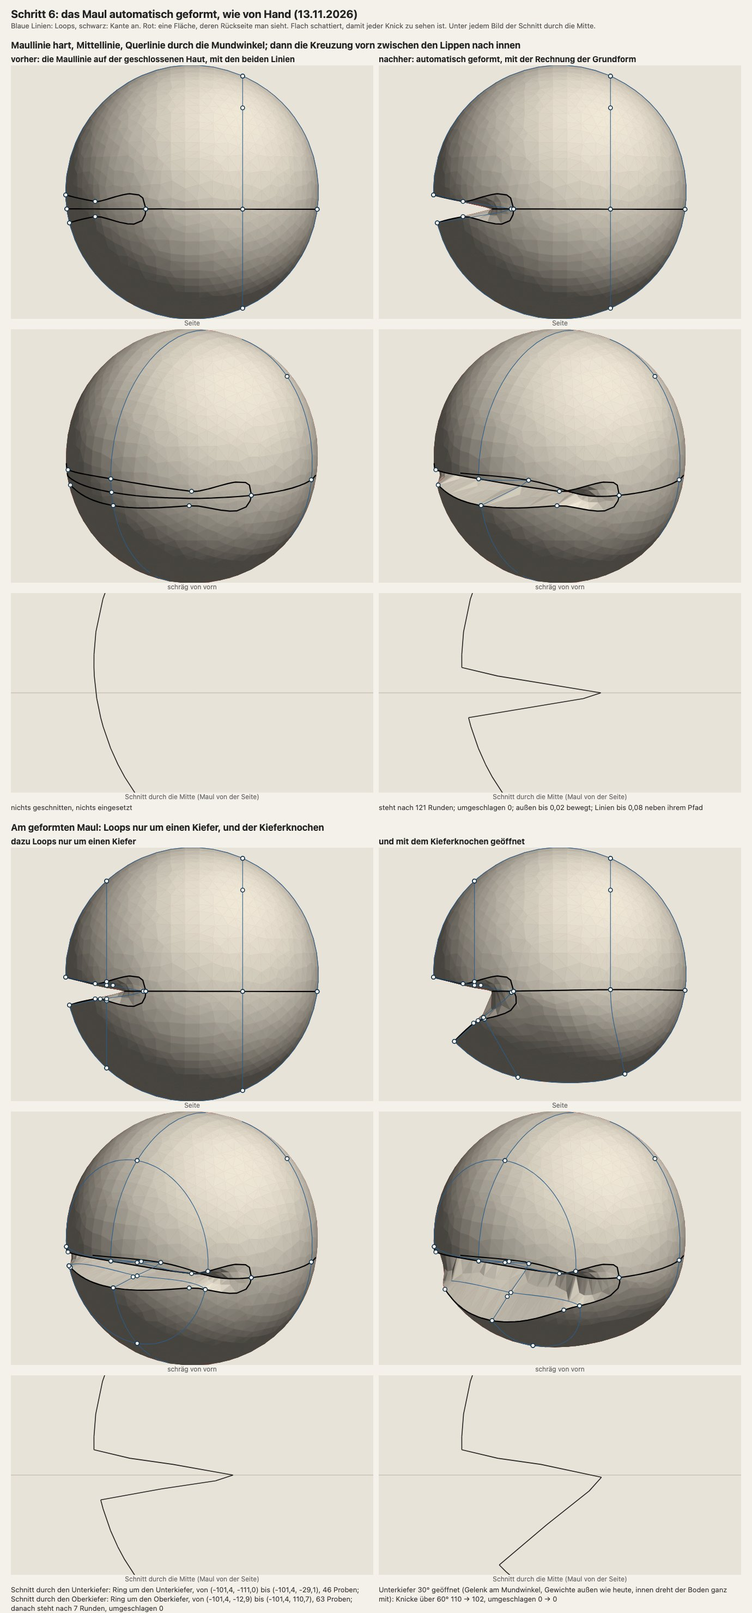
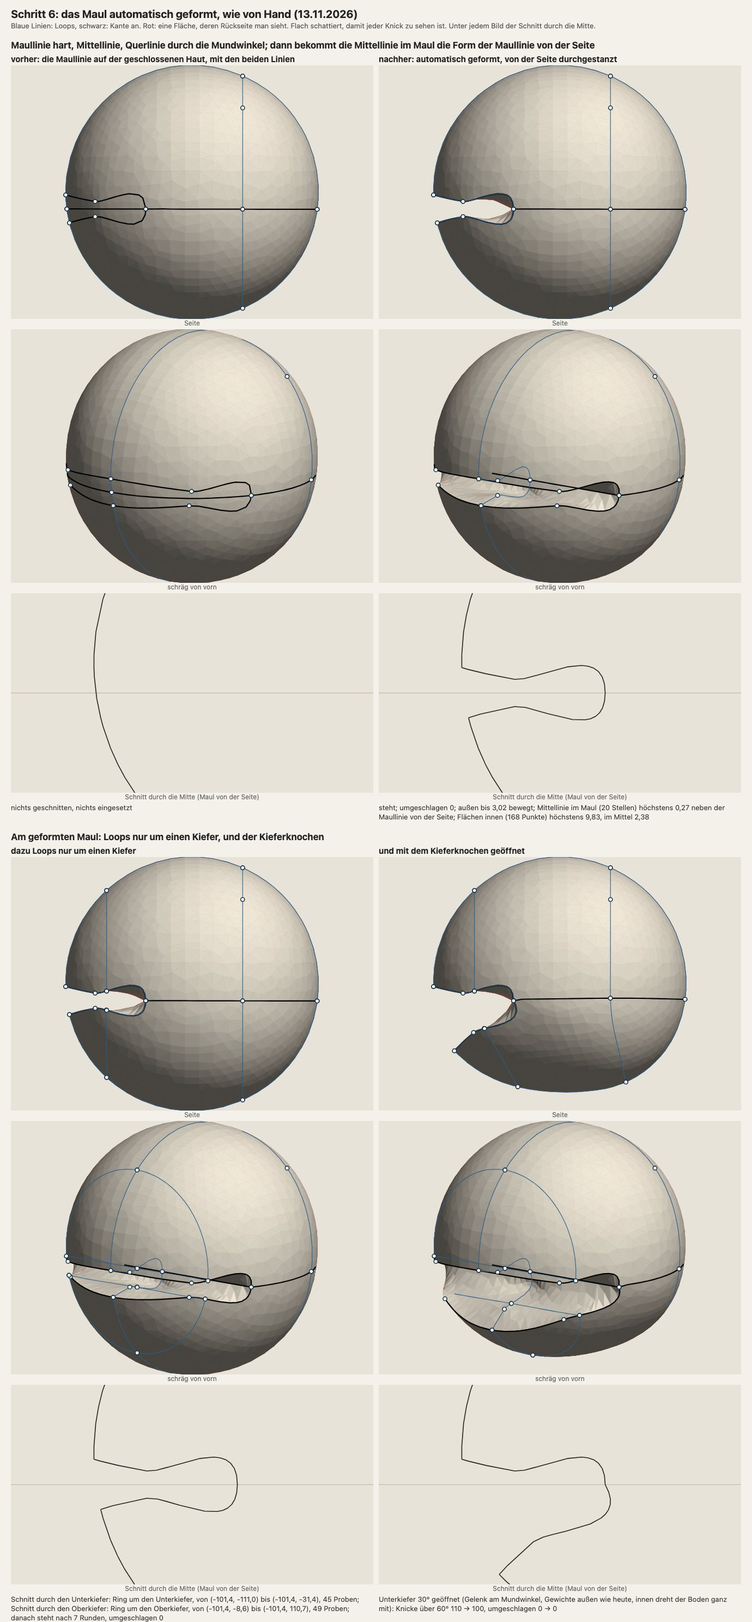
Schritt 6: das automatisch geformte Maul von der Seite durchgestanzt
Florian zum ersten Bild: Das Maul soll aussehen, als wäre die Maullinie von der Seite durchgestanzt; die Mittellinie
muss von der Seite exakt ihre Form haben. Probe form-maul-automatisch.ts: Die Mittellinie bekommt im Maul die Punkte
und Griffe der Maullinie, flach auf die Mittelebene gelegt, in Stufen mit Verfeinern dazwischen. Ergebnis: steht,
nichts umgeschlagen, die Mittellinie liegt im Maul höchstens 0,27 neben der Maullinie von der Seite; die Flächen
zwischen Lippe und Mitte weichen noch bis 9,8 ab (dort liegt keine Linie). Plan, Übergabe (7.9), Bild und Zahlen.

diff --git a/apps/editor/scripts/pruefen/form-maul-automatisch.ts b/apps/editor/scripts/pruefen/form-maul-automatisch.ts
@@ -9,25 +9,28 @@
 //   2  die Mittellinie (falls sie fehlt) und eine Querlinie durch beide Mundwinkel: ein Ring um den Kopf in der Ebene des Mauls. Er
 //      kreuzt die Mittellinie vorn zwischen den Lippen und die Maullinie in den Mundwinkeln; sein Stück zwischen diesen Kreuzungen ist
 //      die Verbindung der gegenüberliegenden Seiten
-//   3  die Kreuzung vorn zwischen den Lippen wird nach innen gezogen, bis zwischen die Mundwinkel: Aus der Fläche zwischen den Lippen
-//      werden Gaumen und Boden
+//   3  durchstanzen (Florian: „als wäre der Edgeloop von der Seitenansicht durchgestanzt […] Das heißt, die Mittellinie muss von der
+//      Seite exakt den Shape der Maullinie haben“): Die Mittellinie bekommt im Maul die Punkte und Griffe der Maullinie, flach auf
+//      die Mittelebene gelegt; die Kreuzung vorn wandert dabei zwischen die Mundwinkel. In Stufen gezogen, unterwegs verfeinert
+//      wie nach jedem Zug. Aus der Fläche zwischen den Lippen werden Gaumen und Boden
 // Form: die Kugel mit Ring und Maullinie aus `formen/pose-maul-kugel.eewesen`.
 //
 // Aufruf aus packages/shape: npx vite-node ../../apps/editor/scripts/pruefen/form-maul-automatisch.ts
-//   AUS=<datei.html> (Bildblatt)   SCHRITTE=60   TIEF=0.97 (Anteil des Wegs bis zwischen die Mundwinkel)   QUER=hart|weich
+//   AUS=<datei.html> (Bildblatt)   STUFEN=8 (so oft wird unterwegs verfeinert)   SCHRITTE=8 (Schritte je Stufe)   QUER=hart|weich
 import { fileURLToPath } from 'node:url';
 import { loopEinsetzen } from '../../../../packages/shape/src/dicht/einsetzen';
 import type { Haut, V3 } from '../../../../packages/shape/src/dicht/kurven';
 import { falten } from '../../../../packages/shape/src/dicht/kurvenFaelle';
 import { type Loop, LoopZug, eckenAuto, griffeAnlegen, hatPfad, hautLagen, istSichtbar, kanteBei, kreuzungenZwischen, loopAusSchnitt, mittlereKante, pfadLagen, punktEinfuegen } from '../../../../packages/shape/src/dicht/loops';
 import { maulAmLoop, mundwinkelProbe } from '../../../../packages/shape/src/dicht/maulLoop';
+import { verdichten } from '../../../../packages/shape/src/dicht/verdichten';
 import { type BlattBild, type BlattLinie, type BlattSchnitt, type BlattZeile, blattSchreiben } from './form-direkt-blatt';
-import { formLadenDatei } from './form-direkt-faelle';
+import { formLadenDatei, verdichtenWieImFenster } from './form-direkt-faelle';
 
 const DATEI = process.env.FORM ?? fileURLToPath(new URL('./formen/pose-maul-kugel.eewesen', import.meta.url));
 const AUS = process.env.AUS ?? '';
-const SCHRITTE = Number(process.env.SCHRITTE ?? 60);
-const TIEF = Number(process.env.TIEF ?? 0.97);
+const STUFEN = Number(process.env.STUFEN ?? 8);
+const SCHRITTE = Number(process.env.SCHRITTE ?? 8);
 const QUER_HART = process.env.QUER !== 'weich';
 const RUHE = 0.02;
 const z1 = (x: number): string => x.toFixed(1).replace('.', ',');
@@ -131,38 +134,197 @@ const vorher: Stand = { h: { ...st.h, pos: Float64Array.from(st.h.pos) }, loops:
 const ruheVor = rechnen(st);
 console.log(`vor dem Zug: ${ruheVor.steht ? `steht nach ${ruheVor.runden} Runden` : 'steht nicht'}; Knicke über 60° ${falten(st.h).ueber60}, umgeschlagen ${falten(st.h).umgeklappt}`);
 
-// 3. die Kreuzung vorn nach innen, bis zwischen die Mundwinkel
+// 3. durchstanzen: die Mittellinie bekommt im Maul die Form der Maullinie von der Seite
 const kVorn = vornP.kreuzung!;
-const weg = { x: TIEF * (G.x - vornP.ref.x), y: TIEF * (G.y - vornP.ref.y), z: 0 };
-const ziel = st.loops.map((l) => {
-  const P = l.punkte.map((p) => {
-    if (p.kreuzung !== kVorn) return p.ref;
-    p.cur = { x: p.ref.x + weg.x, y: p.ref.y + weg.y, z: p.ref.z };
-    return p.cur;
-  });
-  return pfadLagen(l, P) ?? Float64Array.from(l.ruhe);
-});
-const vorZug = Float64Array.from(st.h.pos);
-const lauf = rechnen(st, ziel, SCHRITTE);
-let linieWeit = 0;
-st.loops.forEach((l, i) => {
-  for (let k = 0; k < l.ruhe.length; k += 3) linieWeit = Math.max(linieWeit, Math.hypot(l.ruhe[k]! - ziel[i]![k]!, l.ruhe[k + 1]! - ziel[i]![k + 1]!, l.ruhe[k + 2]! - ziel[i]![k + 2]!));
-});
-const f1 = falten(st.h);
-// außen: Punkte, die vor dem Zug nicht in der Fläche zwischen den Lippen lagen (weiter als 12 hinter den Lippen vorn oder seitlich davon)
-let aussen = 0;
-let innenTief = 0;
-for (let v = 0; v < st.h.n; v++) {
-  const d = Math.hypot(st.h.pos[3 * v]! - vorZug[3 * v]!, st.h.pos[3 * v + 1]! - vorZug[3 * v + 1]!, st.h.pos[3 * v + 2]! - vorZug[3 * v + 2]!);
-  const y0 = vorZug[3 * v + 1]!;
-  const imMaul = vorZug[3 * v]! < G.x && y0 < Math.max(eA.y, eB.y) + 1 && y0 > Math.min(eA.y, eB.y) - 1;
-  if (imMaul) innenTief = Math.max(innenTief, d);
-  else aussen = Math.max(aussen, d);
+const flach = (v: V3): V3 => ({ x: v.x, y: v.y, z: 0 });
+type Ziel = { loop: number; i: number; ort?: V3; ein?: V3; aus?: V3 };
+const ziele: Ziel[] = [];
+{
+  const L = maul();
+  const M = mitte();
+  const n = M.punkte.length;
+  const iW = L.punkte.findIndex((q) => q.mundwinkel);
+  const W = L.punkte[iW]!;
+  const amWinkel = (q: { ref: V3 }): boolean => Math.hypot(q.ref.x - G.x, q.ref.y - G.y, q.ref.z - G.z) < 1;
+  const erste = L.punkte[0]!;
+  const letzte = L.punkte[L.punkte.length - 1]!;
+  const vorWinkel = L.punkte.slice(1, iW).filter((q) => !amWinkel(q));
+  const nachWinkel = L.punkte.slice(iW + 1, -1).filter((q) => !amWinkel(q));
+  const pE0 = M.punkte.find((q) => q.kreuzung === erste.kreuzung)!;
+  const pE1 = M.punkte.find((q) => q.kreuzung === letzte.kreuzung)!;
+  const pT = M.punkte.find((q) => q.kreuzung === kVorn)!;
+  if (!pE0 || !pE1 || !pT) throw new Error('Die Mittellinie kreuzt die Maullinie nicht an beiden Lippen');
+  const folgt = (a: number, b: number): boolean => (b - a + n) % n === 1;
+  // läuft die Mittellinie vom Ende der Maullinie über die Mitte zu ihrem Anfang (dann die Maullinie rückwärts) oder umgekehrt?
+  const rueck = folgt(M.punkte.indexOf(pE1), M.punkte.indexOf(pT)) && folgt(M.punkte.indexOf(pT), M.punkte.indexOf(pE0));
+  const von = rueck ? pE1 : pE0;
+  const bis = rueck ? pE0 : pE1;
+  const erst = rueck ? [...nachWinkel].reverse() : vorWinkel;
+  const dann = rueck ? [...vorWinkel].reverse() : nachWinkel;
+  const hinein = (q: { ein?: V3; aus?: V3 }): V3 => flach((rueck ? q.aus : q.ein)!);
+  const hinaus = (q: { ein?: V3; aus?: V3 }): V3 => flach((rueck ? q.ein : q.aus)!);
+  // neue Punkte der Mittellinie: je Punkt der Maullinie einer, zunächst gleichmäßig auf dem kurzen Stück zwischen den Lippen
+  const einfuegen = (a: { s: number }, b: { s: number }, zahl: number): ReturnType<typeof punktEinfuegen>[] => {
+    const ds = (b.s - a.s + M.laenge) % M.laenge;
+    return Array.from({ length: zahl }, (_, j) => punktEinfuegen(M, (a.s + (ds * (j + 1)) / (zahl + 1)) % M.laenge, undefined, true));
+  };
+  const neuErst = einfuegen(von, pT, erst.length);
+  const neuDann = einfuegen(pT, bis, dann.length);
+  const nr = (q: unknown): number => M.punkte.indexOf(q as (typeof M.punkte)[number]);
+  erst.forEach((q, j) => ziele.push({ loop: M.id, i: nr(neuErst[j]), ort: flach(q.ref), ein: hinein(q), aus: hinaus(q) }));
+  dann.forEach((q, j) => ziele.push({ loop: M.id, i: nr(neuDann[j]), ort: flach(q.ref), ein: hinein(q), aus: hinaus(q) }));
+  // am Mundwinkel können zwei Punkte liegen (der Mundwinkel und die Kreuzung mit der Querlinie dicht daneben): Der Griff zur einen
+  // Lippe steht am ersten, der zur anderen am letzten
+  const amW = L.punkte.filter((q) => amWinkel(q));
+  const zuAnfang = flach(amW[0]!.ein!);
+  const zuEnde = flach(amW[amW.length - 1]!.aus!);
+  ziele.push({ loop: M.id, i: nr(pT), ort: flach(W.ref), ein: rueck ? zuEnde : zuAnfang, aus: rueck ? zuAnfang : zuEnde });
+  // an den Lippen vorn: der Griff ins Maul wie der der Maullinie dort (der andere bleibt)
+  ziele.push({ loop: M.id, i: nr(von), aus: flach((rueck ? letzte.ein : erste.aus)!) });
+  ziele.push({ loop: M.id, i: nr(bis), ein: flach((rueck ? erste.aus : letzte.ein)!) });
+  // die Querlinie: ihr Punkt vorn kommt zwischen die Mundwinkel, das Stück bis zum Mundwinkel wird gerade
+  const Q = quer();
+  const qT = Q.punkte.findIndex((q) => q.kreuzung === kVorn);
+  const qW = winkelP ? Q.punkte.indexOf(winkelP) : -1;
+  const d3 = G.z / 3;
+  ziele.push({ loop: Q.id, i: qT, ort: flach(W.ref), ...(qT === 0 ? { aus: { x: 0, y: 0, z: d3 }, ein: { x: 0, y: 0, z: -d3 } } : { ein: { x: 0, y: 0, z: d3 }, aus: { x: 0, y: 0, z: -d3 } }) });
+  if (qW >= 0) ziele.push({ loop: Q.id, i: qW, ...(qW > qT ? { ein: { x: 0, y: 0, z: -d3 } } : { aus: { x: 0, y: 0, z: -d3 } }) });
+  for (const x of st.loops) for (const q of x.punkte) q.cur = { ...q.ref };
+  console.log(`Durchstanzen: die Mittellinie bekommt im Maul ${erst.length + dann.length + 1} Punkte der Maullinie (${rueck ? 'rückwärts' : 'vorwärts'} durchlaufen); Mittellinie jetzt ${M.punkte.length} Punkte`);
 }
+// Anfang und Ende je Punkt und Griff
+const start = ziele.map((zl) => {
+  const q = st.loops.find((l) => l.id === zl.loop)!.punkte[zl.i]!;
+  return { ort: { ...q.ref }, ein: { ...q.ein! }, aus: { ...q.aus! } };
+});
+const zwischen = (a: V3, b: V3, f: number): V3 => ({ x: a.x + f * (b.x - a.x), y: a.y + f * (b.y - a.y), z: a.z + f * (b.z - a.z) });
+// die Fläche zwischen den Lippen (wird Gaumen und Boden) und die Herkunft der Punkte, durch das Verfeinern hindurch
+let innen = new Uint8Array(st.h.n);
+{
+  const L = maul();
+  const m0 = maulAmLoop(st.h, L, mundwinkelProbe(L), { zelle: geladen.mk / 2 });
+  if (!m0) throw new Error('Die Maullinie umschließt keine Fläche');
+  const offenZahl = new Uint16Array(st.h.n);
+  const alleZahl = new Uint16Array(st.h.n);
+  for (let t = 0; t < st.h.tri.length / 3; t++)
+    for (let e = 0; e < 3; e++) {
+      alleZahl[st.h.tri[3 * t + e]!]!++;
+      if (m0.offen[t]) offenZahl[st.h.tri[3 * t + e]!]!++;
+    }
+  for (let v = 0; v < st.h.n; v++) innen[v] = offenZahl[v]! > 0 && offenZahl[v] === alleZahl[v] ? 1 : 0;
+}
+const vorZug = Float64Array.from(st.h.pos);
+let her = Int32Array.from({ length: st.h.n }, (_, v) => v);
+const punkteVor = st.h.n;
+let lauf = ruheVor;
+let rundenGanz = 0;
+let unruhe = 0;
+for (let b = 1; b <= STUFEN; b++) {
+  const f = b / STUFEN;
+  ziele.forEach((zl, k) => {
+    const q = st.loops.find((l) => l.id === zl.loop)!.punkte[zl.i]!;
+    if (zl.ort) q.cur = zwischen(start[k]!.ort, zl.ort, f);
+    if (zl.ein) q.ein = zwischen(start[k]!.ein, zl.ein, f);
+    if (zl.aus) q.aus = zwischen(start[k]!.aus, zl.aus, f);
+  });
+  // die gemeinsamen Punkte einer Kreuzung liegen am selben Ort
+  for (const l of st.loops) for (const q of l.punkte) if (q.kreuzung === kVorn) q.cur = zwischen(start[ziele.findIndex((zl) => zl.ort && zl.loop === mitteId && st.loops.find((x) => x.id === mitteId)!.punkte[zl.i]!.kreuzung === kVorn)]!.ort, flach(G), f);
+  const Z = st.loops.map((l) => pfadLagen(l, l.punkte.map((q) => q.cur)) ?? Float64Array.from(l.ruhe));
+  lauf = rechnen(st, Z, SCHRITTE);
+  rundenGanz += lauf.runden;
+  unruhe += lauf.unruhe.stufen;
+  // verfeinern wie das Fenster nach einem Zug
+  for (let g = 0; g < 8; g++) {
+    const v = verdichten(st.h, st.loops, 1.75 * geladen.mk, verdichtenWieImFenster(geladen.mk, 0.5));
+    if (!v) break;
+    const i2 = new Uint8Array(v.haut.n);
+    const h2 = new Int32Array(v.haut.n);
+    for (let w = 0; w < v.haut.n; w++) {
+      const a = v.alt[w]!;
+      h2[w] = a >= 0 ? her[a]! : -1;
+      i2[w] = a >= 0 ? innen[a]! : 2;
+    }
+    for (let w = 0; w < v.haut.n; w++) {
+      if (i2[w] !== 2) continue;
+      const nb = v.haut.nachbarn[w]!.filter((x) => i2[x] !== 2);
+      i2[w] = nb.length && nb.filter((x) => i2[x] === 1).length * 2 > nb.length ? 1 : 0;
+    }
+    innen = i2;
+    her = h2;
+    st = { h: v.haut, loops: v.loops };
+    for (const l of st.loops) for (const q of l.punkte) q.cur = { ...q.ref };
+    if (v.gelegt === 0 && v.neu === 0) break;
+  }
+}
+const ende = rechnen(st);
+rundenGanz += ende.runden;
+// Maße: Linien auf ihren Pfaden; außen bewegt; die Mittellinie im Maul und die Flächen innen gegen die Maullinie von der Seite
+let linieWeit = 0;
+for (const l of st.loops) {
+  const Z = pfadLagen(l);
+  if (!Z) continue;
+  for (let k = 0; k < l.ruhe.length; k += 3) linieWeit = Math.max(linieWeit, Math.hypot(l.ruhe[k]! - Z[k]!, l.ruhe[k + 1]! - Z[k + 1]!, l.ruhe[k + 2]! - Z[k + 2]!));
+}
+const f1 = falten(st.h);
+let aussen = 0;
+for (let v = 0; v < st.h.n; v++) {
+  if (innen[v] || her[v]! < 0) continue;
+  const a = her[v]!;
+  aussen = Math.max(aussen, Math.hypot(st.h.pos[3 * v]! - vorZug[3 * a]!, st.h.pos[3 * v + 1]! - vorZug[3 * a + 1]!, st.h.pos[3 * v + 2]! - vorZug[3 * a + 2]!));
+}
+/** Abstand in der Seite (x, y) zur Maullinie, wie sie von der Seite aussieht */
+const zurMaullinie = ((): ((x: number, y: number) => number) => {
+  const L = maul();
+  const Pf = pfadLagen(L) ?? L.ruhe;
+  const q: [number, number][] = [];
+  for (let k = 0; k < Pf.length; k += 3) q.push([Pf[k]!, Pf[k + 1]!]);
+  return (x, y) => {
+    let best = Infinity;
+    for (let k = 0; k + 1 < q.length; k++) {
+      const [ax, ay] = q[k]!;
+      const [bx, by] = q[k + 1]!;
+      const l2 = (bx - ax) ** 2 + (by - ay) ** 2 || 1;
+      const t = Math.max(0, Math.min(1, ((x - ax) * (bx - ax) + (y - ay) * (by - ay)) / l2));
+      best = Math.min(best, Math.hypot(x - ax - t * (bx - ax), y - ay - t * (by - ay)));
+    }
+    return best;
+  };
+})();
+let profilWeit = 0;
+let profilZahl = 0;
+for (const pr of mitte().proben) {
+  const v = pr.ecken[0];
+  if (!innen[v]) continue;
+  profilZahl++;
+  profilWeit = Math.max(profilWeit, zurMaullinie(st.h.pos[3 * v]!, st.h.pos[3 * v + 1]!));
+}
+let flaecheWeit = 0;
+let flaecheMittel = 0;
+let flaecheZahl = 0;
+for (let v = 0; v < st.h.n; v++) {
+  if (!innen[v]) continue;
+  const d = zurMaullinie(st.h.pos[3 * v]!, st.h.pos[3 * v + 1]!);
+  flaecheWeit = Math.max(flaecheWeit, d);
+  flaecheMittel += d;
+  flaecheZahl++;
+}
+flaecheMittel /= Math.max(1, flaecheZahl);
+const stanzText = `Mittellinie im Maul (${profilZahl} Stellen) höchstens ${z2(profilWeit)} neben der Maullinie von der Seite; Flächen innen (${flaecheZahl} Punkte) höchstens ${z2(flaecheWeit)}, im Mittel ${z2(flaecheMittel)}`;
 console.log(
-  `Zug (${SCHRITTE} Schritte, ${z1(Math.hypot(weg.x, weg.y))} nach innen): ${lauf.steht ? `steht nach ${lauf.runden} Runden` : `steht nach ${lauf.runden} Runden nicht (letzte ${z2(lauf.letzte)})`}; ` +
-    `zwischen den Lippen bis ${z1(innenTief)} bewegt, außen bis ${z2(aussen)}; Linien bis ${z2(linieWeit)} neben ihrem Pfad; Knicke über 60° ${f1.ueber60}, umgeschlagen ${f1.umgeklappt}; Vorsicht ${lauf.unruhe.stufen}${lauf.unruhe.fest ? ', steht fest' : ''}`,
+  `Durchgestanzt in ${STUFEN} Stufen zu ${SCHRITTE} Schritten (${rundenGanz} Runden, Netz ${punkteVor} → ${st.h.n} Punkte): ${ende.steht ? `steht (${ende.runden} Runden am Ende)` : `steht nicht (letzte ${z2(ende.letzte)})`}; ` +
+    `außen bis ${z2(aussen)} bewegt; Linien bis ${z2(linieWeit)} neben ihrem Pfad; Knicke über 60° ${f1.ueber60}, umgeschlagen ${f1.umgeklappt}; Vorsicht ${unruhe + ende.unruhe.stufen}${ende.unruhe.fest ? ', steht fest' : ''}`,
 );
+console.log(`   wie durchgestanzt: ${stanzText}`);
+if (process.env.DEBUG === '1') {
+  const v3 = (v?: V3): string => (v ? `(${z1(v.x)}, ${z1(v.y)}, ${z1(v.z)})` : '-');
+  console.log('   Maullinie:');
+  for (const q of maul().punkte) console.log(`      ${v3(q.ref)} ein ${v3(q.ein)} aus ${v3(q.aus)}${q.mundwinkel ? ' Mundwinkel' : ''}${q.kreuzung !== undefined ? ` K${q.kreuzung}` : ''}`);
+  console.log('   Mittellinie:');
+  for (const q of mitte().punkte) console.log(`      ${v3(q.ref)} ein ${v3(q.ein)} aus ${v3(q.aus)}${q.kreuzung !== undefined ? ` K${q.kreuzung}` : ''}${q.ecke ?? q.autoEcke ? ' Ecke' : ''}`);
+  console.log('   Ziele:');
+  ziele.forEach((zl) => console.log(`      Loop ${zl.loop} Punkt ${zl.i}: Ort ${v3(zl.ort)} ein ${v3(zl.ein)} aus ${v3(zl.aus)}`));
+}
+lauf = ende;
 
 const geformt: Stand = { h: { ...st.h, pos: Float64Array.from(st.h.pos) }, loops: kopieLoops(st.loops) };
 
@@ -279,10 +441,10 @@ if (AUS) {
       ] as const;
       const zeilen: BlattZeile[] = [
         {
-          titel: 'Maullinie hart, Mittellinie, Querlinie durch die Mundwinkel; dann die Kreuzung vorn zwischen den Lippen nach innen',
+          titel: 'Maullinie hart, Mittellinie, Querlinie durch die Mundwinkel; dann bekommt die Mittellinie im Maul die Form der Maullinie von der Seite',
           bilder: [
             bild('vorher: die Maullinie auf der geschlossenen Haut, mit den beiden Linien', vorher, 'nichts geschnitten, nichts eingesetzt'),
-            bild('nachher: automatisch geformt, mit der Rechnung der Grundform', geformt, `${lauf.steht ? `steht nach ${lauf.runden} Runden` : 'steht nicht'}; umgeschlagen ${f1.umgeklappt}; außen bis ${z2(aussen)} bewegt; Linien bis ${z2(linieWeit)} neben ihrem Pfad`),
+            bild('nachher: automatisch geformt, von der Seite durchgestanzt', geformt, `${lauf.steht ? 'steht' : 'steht nicht'}; umgeschlagen ${f1.umgeklappt}; außen bis ${z2(aussen)} bewegt; ${stanzText}`),
           ],
           blicke,
           mass: 430,

diff --git a/docs/UEBERGABE.md b/docs/UEBERGABE.md
@@ -1,4 +1,4 @@
-# Übergabe (Stand 13.11.2026, 17:30 Uhr: Schritt 6 (Maul) ist neu gefasst und der Beweis hält (Abschnitt 7.9): Das Maul entsteht automatisch an der gewählten Linie, geformt wie von Hand (Kante hart, Querlinie durch die Mundwinkel, die Mitte zwischen den Lippen wird in Schritten nach innen gezogen). Danach gehen Loops nur um einen Kiefer und der Kieferknochen. Die beiden Beweise davor (7.6 Posen, 7.7 Maul als eingeschweißte Höhle) hatten das Falsche geprüft; Florian hat widersprochen und recht behalten (7.8). Gebaut ist nichts; gefragt ist sein Wort zum Bauen. Schritt 4b, erster Teil, die Rechnung auf der Hälfte, ist in seinem Fenster (5194; Abschnitt 7.5); der Rest der halben Haut ist als Schritt 4c fest vorgemerkt. Schritt 3 ist abgeschlossen, die heutige Rechnung bleibt. Zu Schritt 1, 2, dem Donut (4a) und der halben Rechnung steht sein Urteil aus)
+# Übergabe (Stand 13.11.2026, 17:35 Uhr: Schritt 6 (Maul) ist neu gefasst und der Beweis hält (Abschnitt 7.9): Das Maul entsteht automatisch an der gewählten Linie, geformt wie von Hand und von der Seite durchgestanzt (Kante hart, Querlinie durch die Mundwinkel, die Mittellinie bekommt im Maul in Stufen die Form der Maullinie). Danach gehen Loops nur um einen Kiefer und der Kieferknochen. Die beiden Beweise davor (7.6 Posen, 7.7 Maul als eingeschweißte Höhle) hatten das Falsche geprüft; Florian hat widersprochen und recht behalten (7.8). Gebaut ist nichts; gefragt ist sein Wort zum Bauen. Schritt 4b, erster Teil, die Rechnung auf der Hälfte, ist in seinem Fenster (5194; Abschnitt 7.5); der Rest der halben Haut ist als Schritt 4c fest vorgemerkt. Schritt 3 ist abgeschlossen, die heutige Rechnung bleibt. Zu Schritt 1, 2, dem Donut (4a) und der halben Rechnung steht sein Urteil aus)
 
 Diese Datei wird am Ende jedes Arbeitsblocks **überschrieben**. Die Übergabe vom 11.11. (Karte von `kurven.ts`, Fallen, Proben,
 Altlasten, Florians frühere Urteile) liegt unverändert in
@@ -725,11 +725,19 @@ an gegeben. Daher bläst sich eigentlich auch nicht mehr so viel auf, und es sol
 2. Mittellinie (falls sie fehlt) und eine **Querlinie durch beide Mundwinkel**: ein Ring um den Kopf in der Ebene des Mauls. Er
    kreuzt die Mittellinie vorn zwischen den Lippen und die Maullinie in den Mundwinkeln; das Stück dazwischen ist hart. Das ist
    „die gegenüberliegenden Seiten verbinden“, als Linie.
-3. Die Kreuzung vorn zwischen den Lippen wird in 60 Schritten nach innen gezogen (91, bis zwischen die Mundwinkel).
+3. **Durchstanzen:** Die Mittellinie bekommt im Maul die Punkte und Griffe der Maullinie, flach auf die Mittelebene gelegt; die
+   Kreuzung vorn wandert dabei zwischen die Mundwinkel, das Stück der Querlinie bis zum Mundwinkel wird gerade. In 8 Stufen zu 8
+   Schritten, nach jeder Stufe verfeinert wie nach einem Zug.
+
+**Florian zum ersten Bild (13.11., 17:35 Uhr; dort wurde nur die Kreuzung nach innen gezogen, die Mittellinie lief als gerades V
+nach hinten):** „Das Maul sieht aber auf deinen Bildern noch falsch aus. Es soll aussehen, als wäre der Edgeloop von der
+Seitenansicht durchgestanzt mit genau der Form des Maulloops von der Seite. Das heißt, die Mittellinie muss von der Seite exakt
+den Shape der Maullinie haben. Verstehst du. Aber der Weg ist grundsätzlich richtig.“ Daraus ist Schritt 3 oben geworden.
 
 | Geprüft | Ergebnis |
 | --- | --- |
-| Das Maul formen | steht gleich nach dem Zug; nichts umgeschlagen; außen 0,02 bewegt; Linien 0,08 neben ihrem Pfad; Vorsicht 0 |
+| Das Maul formen | steht; nichts umgeschlagen; Vorsicht 0; Linien 0,08 neben ihrem Pfad; außen bis 3,0 bewegt (mit dem Verfeinern unterwegs) |
+| Durchgestanzt | **die Mittellinie liegt im Maul höchstens 0,27 neben der Maullinie von der Seite**; die Flächen zwischen Lippe und Mitte weichen noch bis 9,8 ab (im Mittel 2,4) |
 | Loop nur um den Unterkiefer, Loop nur um den Oberkiefer | beide lassen sich schneiden und einsetzen; danach Ruhe nach 7 Runden, nichts umgeschlagen |
 | Kieferknochen 30° offen | nichts umgeschlagen (Gelenk am Mundwinkel; Gewichte außen wie heute, innen Boden ganz, Gaumen gar nicht) |
 | Zum Vergleich: dieselbe Form auf einmal hineingebaut, mit der Verbindung hinten als harter Linie | kommt nicht zur Ruhe (Vorsicht hält nach acht Runden an; 99 umgeschlagen) |
@@ -741,14 +749,16 @@ an gegeben. Daher bläst sich eigentlich auch nicht mehr so viel auf, und es sol
    um den Kopf, der durch die Mundwinkel läuft.
 3. Was 7.7 nicht konnte (den Loop um einen Kiefer einsetzen), geht hier.
 
-**Offen aus der Probe:** eine Form, nur im Kern, ohne Verfeinern im Zug. Die Maullinie bekommt am Mundwinkel einen zweiten
-Punkt dicht neben dem vorhandenen. Die Gewichte innen sind grob; geöffnet ist die Fläche hinten am Gelenk zackig. Glatte Lippen
+**Offen aus der Probe:** eine Form, nur im Kern. Die Flächen innen sind noch nicht genau durchgestanzt (zwischen Lippe und
+Mitte liegt keine Linie, die Rechnung rundet dort); Vorschlag: an jedem Punkt der Maullinie eine Querlinie wie am Mundwinkel,
+innen gerade von der Lippe zur Mitte, außen ein Loop um den Kiefer. Die Maullinie bekommt am Mundwinkel einen zweiten Punkt
+dicht neben dem vorhandenen. Die Gewichte innen sind grob; geöffnet ist die Fläche hinten am Gelenk zackig. Glatte Lippen
 (Kante aus) sind nicht geprüft.
 
 **Etappen** (Plan, „Schritt 6, wie Florian ihn beschreibt“): 1. „Maul“ formt automatisch (Kern und Fenster); 2. Kieferknochen am
 geformten Maul, auch am von Hand geformten; 3. danach Schritt 5 (Posen).
 
-**Gefragt ist Florian (13.11., 17:30 Uhr):** Soll ich so bauen? **„Ja, so bauen“** oder **„Nein“**.
+**Gefragt ist Florian (13.11., 17:35 Uhr):** Soll ich so bauen? **„Ja, so bauen“** oder **„Nein“**.
 
 ## 8. Offen aus der Zeit davor
 

diff --git a/docs/plans/2026-11-12-schnell-glatt-exakt.md b/docs/plans/2026-11-12-schnell-glatt-exakt.md
@@ -514,19 +514,27 @@ täte; es wird nur an Linien gezogen, die Haut folgt der Rechnung der Grundform 
 2. Die Mittellinie ist da (sonst wird sie angelegt). Dazu kommt eine Querlinie durch beide Mundwinkel: ein Ring um den Kopf in
    der Ebene des Mauls. Er kreuzt die Mittellinie vorn zwischen den Lippen und die Maullinie in den Mundwinkeln. Sein Stück
    dazwischen ist die Verbindung der gegenüberliegenden Seiten; es ist hart.
-3. Die Kreuzung vorn zwischen den Lippen wird nach innen gezogen, bis zwischen die Mundwinkel. Aus der Fläche zwischen den Lippen
-   werden Gaumen und Boden.
+3. **Durchstanzen** (Florian zum ersten Bild, 13.11., 17:35 Uhr: „Das Maul sieht aber auf deinen Bildern noch falsch aus. Es
+   soll aussehen, als wäre der Edgeloop von der Seitenansicht durchgestanzt mit genau der Form des Maulloops von der Seite. Das
+   heißt, die Mittellinie muss von der Seite exakt den Shape der Maullinie haben. […] Aber der Weg ist grundsätzlich richtig“):
+   Die Mittellinie bekommt im Maul die Punkte und Griffe der Maullinie, flach auf die Mittelebene gelegt; die Kreuzung vorn
+   wandert dabei zwischen die Mundwinkel, das Stück der Querlinie bis zum Mundwinkel wird gerade. Gezogen wird in Stufen,
+   unterwegs wird verfeinert wie nach jedem Zug. Aus der Fläche zwischen den Lippen werden Gaumen und Boden. (Die erste Fassung
+   zog nur die Kreuzung nach innen; die Mittellinie lief dann als gerades V nach hinten.)
 
-Ergebnis an der Kugel mit Maullinie: Die Haut steht gleich nach dem Zug (60 Schritte, 91 nach innen), nichts ist umgeschlagen,
-außen bewegt sich nichts (0,02), die Linien liegen auf ihren Pfaden (0,08). Danach lassen sich Loops nur um den Unterkiefer und
-nur um den Oberkiefer schneiden und einsetzen (steht nach 7 Runden, nichts umgeschlagen), und der Kieferknochen öffnet das Maul
-um 30° ohne umgeschlagene Dreiecke. Zum Vergleich: Dieselbe Form auf einmal hineingebaut (`form-maul-haut.ts`) kommt nicht zur
+Ergebnis an der Kugel mit Maullinie (8 Stufen zu 8 Schritten): Die Haut steht, nichts ist umgeschlagen, die Vorsicht greift nie
+ein, die Linien liegen auf ihren Pfaden (0,08). **Die Mittellinie liegt im Maul höchstens 0,27 neben der Maullinie von der
+Seite.** Die Flächen zwischen Lippe und Mitte weichen von der durchgestanzten Form noch bis 9,8 ab (im Mittel 2,4): Dort liegt
+noch keine Linie, die Rechnung rundet. Außen bewegt sich die Haut bis 3,0 (mit dem Verfeinern unterwegs; ohne waren es 0,02).
+Danach lassen sich Loops nur um den Unterkiefer und nur um den Oberkiefer schneiden und einsetzen (steht nach 7 Runden, nichts
+umgeschlagen), und der Kieferknochen öffnet das Maul um 30° ohne umgeschlagene Dreiecke. Zum Vergleich: Dieselbe Form auf einmal hineingebaut (`form-maul-haut.ts`) kommt nicht zur
 Ruhe, auch mit der Verbindung hinten als harter Linie (die Vorsicht hält nach acht Runden an). Der Unterschied ist das Formen in
 Schritten, nicht die Form.
 
-**Offen aus der Probe:** eine Form, nur im Kern, ohne Verfeinern im Zug (die Fläche zwischen den Lippen wird stark gestreckt; im
-Fenster verfeinert der Zug). Die Maullinie bekommt am Mundwinkel einen zweiten Punkt dicht neben dem vorhandenen (die Kreuzung
-mit der Querlinie muss den Mundwinkel selbst nehmen). Die Gewichte innen sind in der Probe grob (Boden ganz, Gaumen gar nicht);
+**Offen aus der Probe:** eine Form, nur im Kern. Die Flächen innen sind noch nicht genau durchgestanzt (bis 9,8 daneben);
+Vorschlag: an jedem Punkt der Maullinie eine Querlinie wie am Mundwinkel (innen gerade von der Lippe zur Mitte, außen ein Loop
+um den Kiefer), dann spannt die Rechnung dazwischen nur noch kurze Stücke. Die Maullinie bekommt am Mundwinkel einen zweiten
+Punkt dicht neben dem vorhandenen (die Kreuzung mit der Querlinie muss den Mundwinkel selbst nehmen). Die Gewichte innen sind in der Probe grob (Boden ganz, Gaumen gar nicht);
 geöffnet ist die Fläche hinten am Gelenk deshalb zackig. Glatte Lippen (Kante aus) sind nicht geprüft.
 
 **Etappen** (Bau-Fenster, jede mit Bildpaar; in Florians Fenster erst nach seinem Wort):
